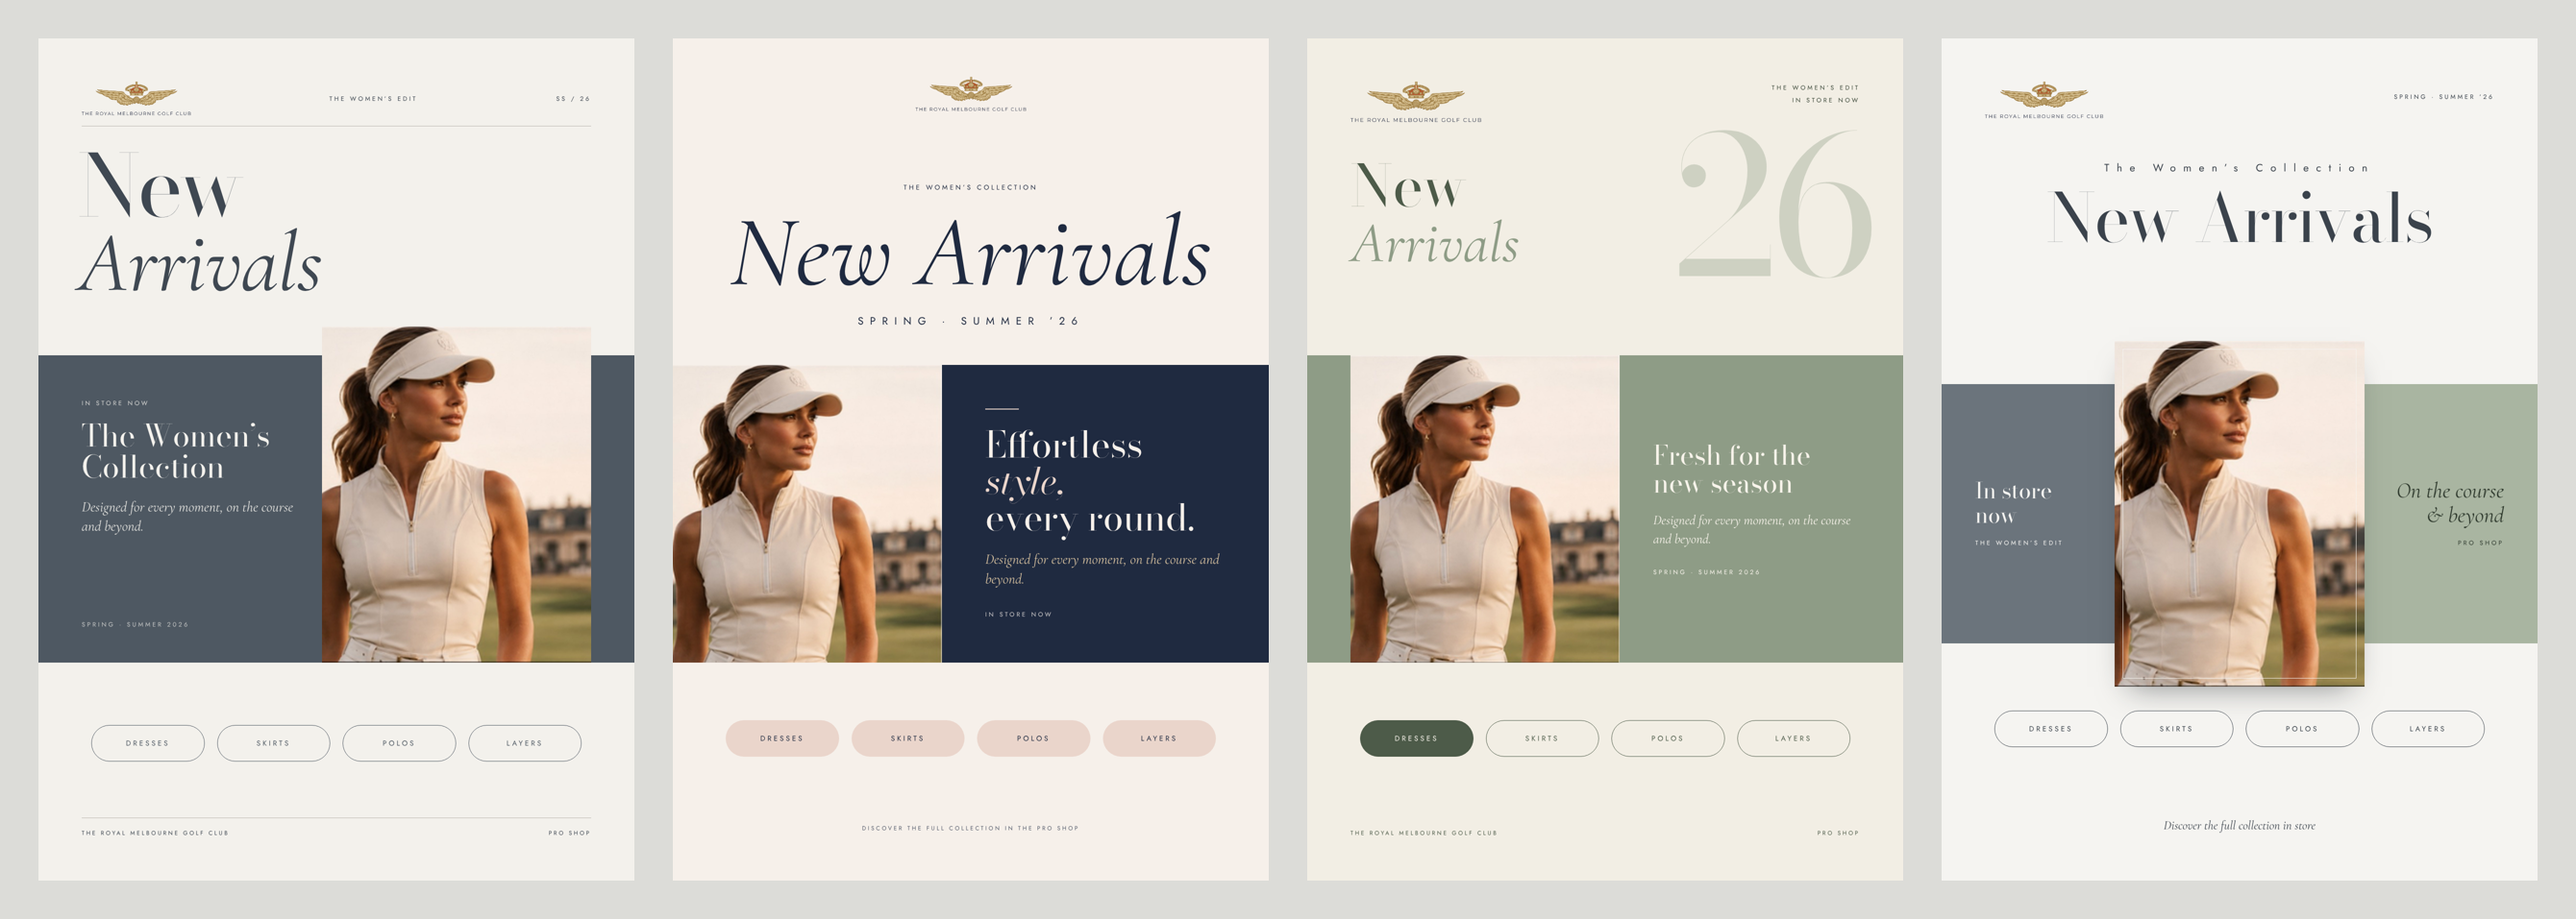
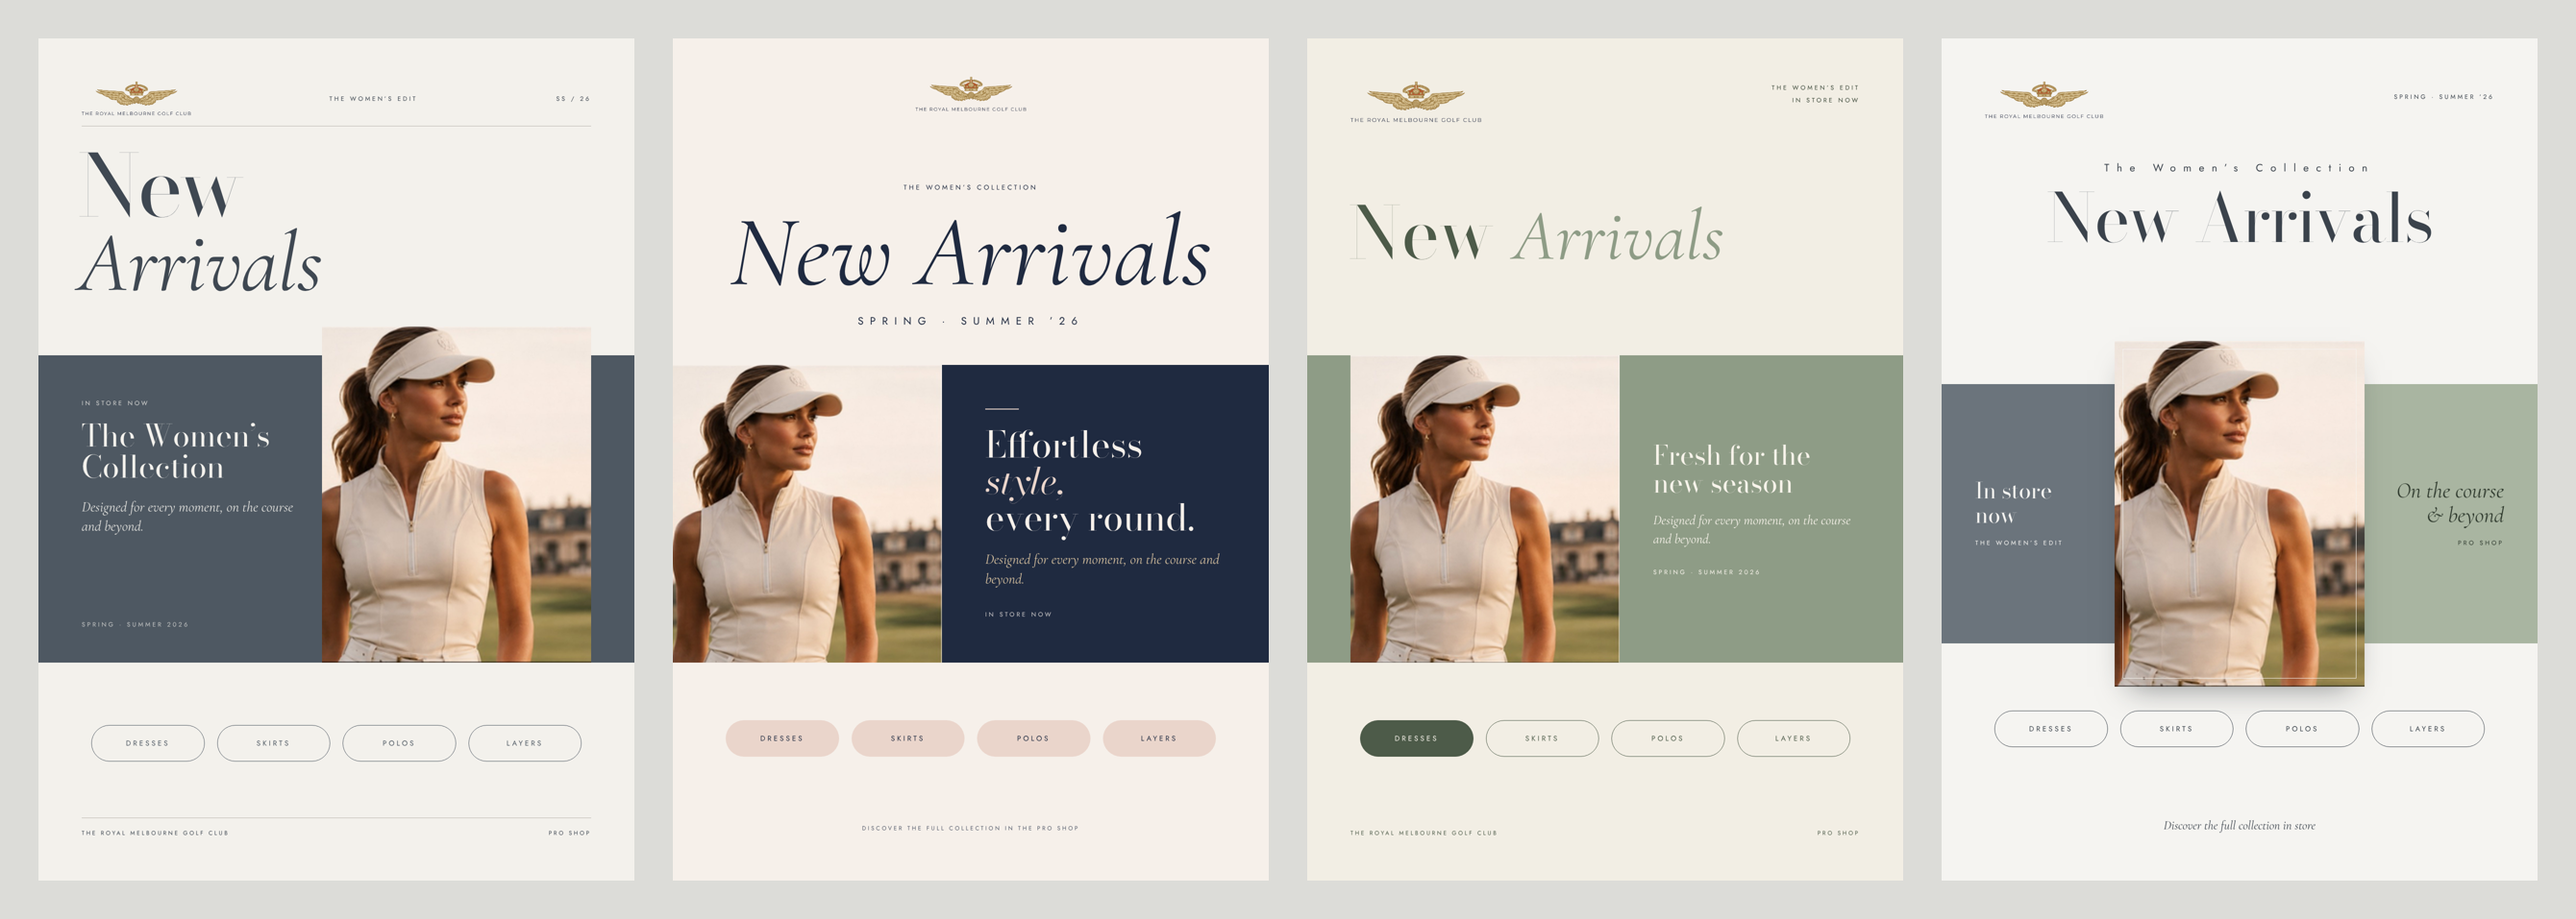
Option 3: New Arrivals on one line, remove 26
Claude-Session: https://claude.ai/code/session_017weYBb45XF1GPNbq3EQjyr

Changed region(s): [[0.5265, 0.1515, 0.7433, 0.303]]

diff --git a/options/poster-options.html b/options/poster-options.html
@@ -88,8 +88,7 @@
   .s3 .top { position: absolute; left: 90px; right: 90px; top: 90px; display: flex; justify-content: space-between; align-items: flex-start; }
   .s3 .top img { height: 84px; }
   .s3 .top .k { font-size: 13px; text-align: right; line-height: 2; }
-  .s3 .yr { position: absolute; right: 70px; top: 190px; font-size: 400px; line-height: .8; color: var(--sage); opacity: .35; letter-spacing: -.04em; }
-  .s3 h1 { position: absolute; left: 90px; top: 250px; font-weight: 400; font-size: 120px; line-height: .95; color: var(--deep); }
+  .s3 h1 { position: absolute; left: 86px; top: 330px; font-weight: 400; font-size: 150px; line-height: 1; white-space: nowrap; color: var(--deep); }
   .s3 h1 em { font-family: 'Cormorant Garamond', serif; color: var(--sage); }
   .s3 .band { position: absolute; left: 0; right: 0; top: 660px; height: 640px; background: var(--sage); color: var(--cream); }
   .s3 .band .photo { position: absolute; left: 90px; top: 0; width: 560px; height: 100%; }
@@ -169,8 +168,7 @@
   <!-- 3 · Sage & cream -->
   <section class="s3">
     <div class="top"><img src="../rmgc-logo-primary.png" alt="The Royal Melbourne Golf Club"><div class="k caps">The Women’s Edit<br>In store now</div></div>
-    <div class="yr serif">26</div>
-    <h1 class="serif">New<br><em>Arrivals</em></h1>
+    <h1 class="serif">New <em>Arrivals</em></h1>
     <div class="band">
       <div class="photo"></div>
       <div class="txt">
